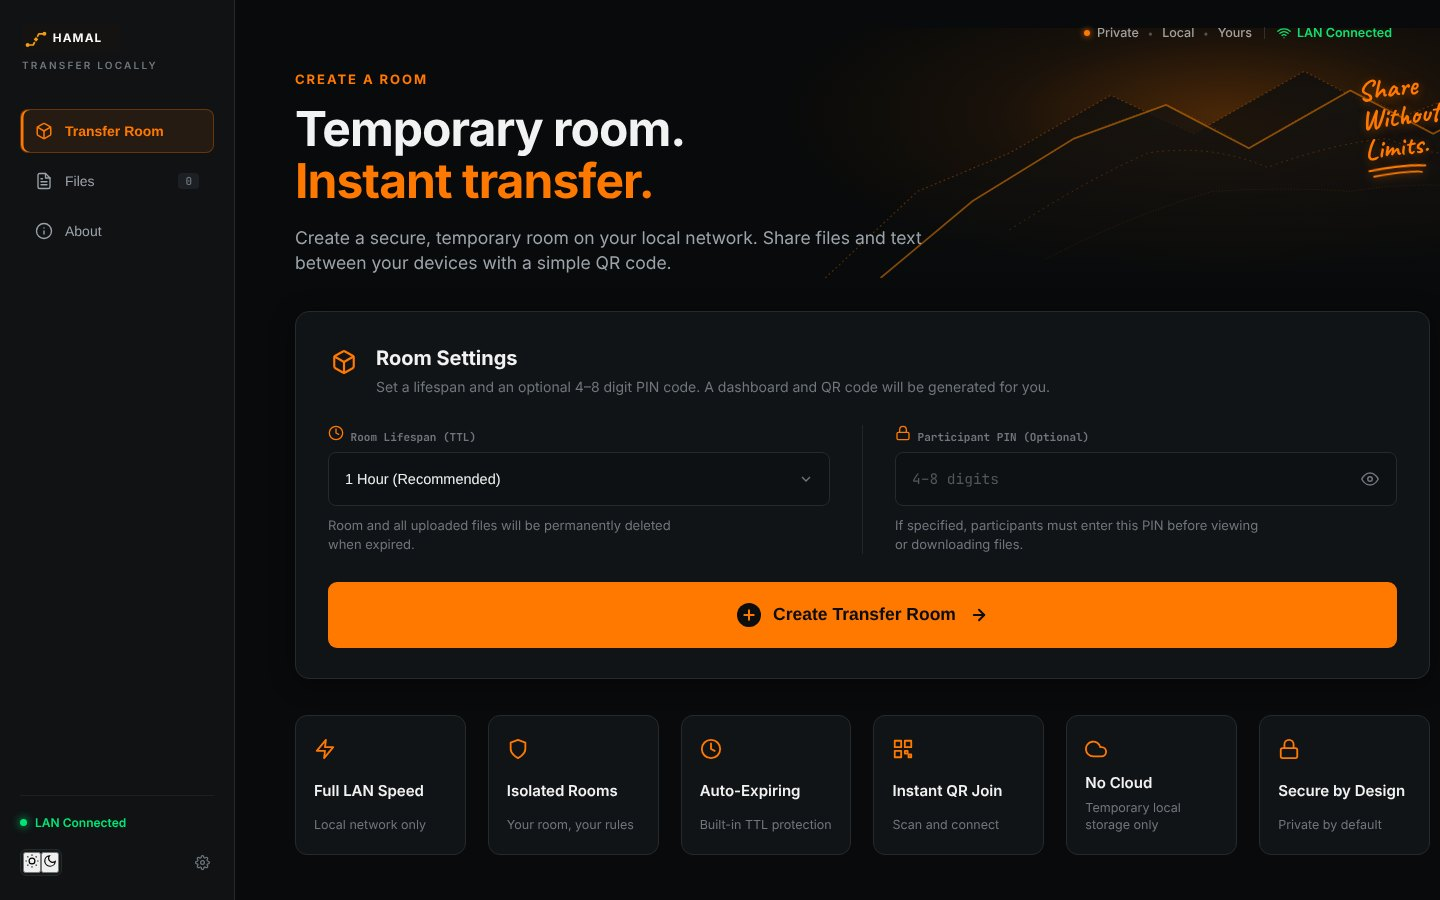
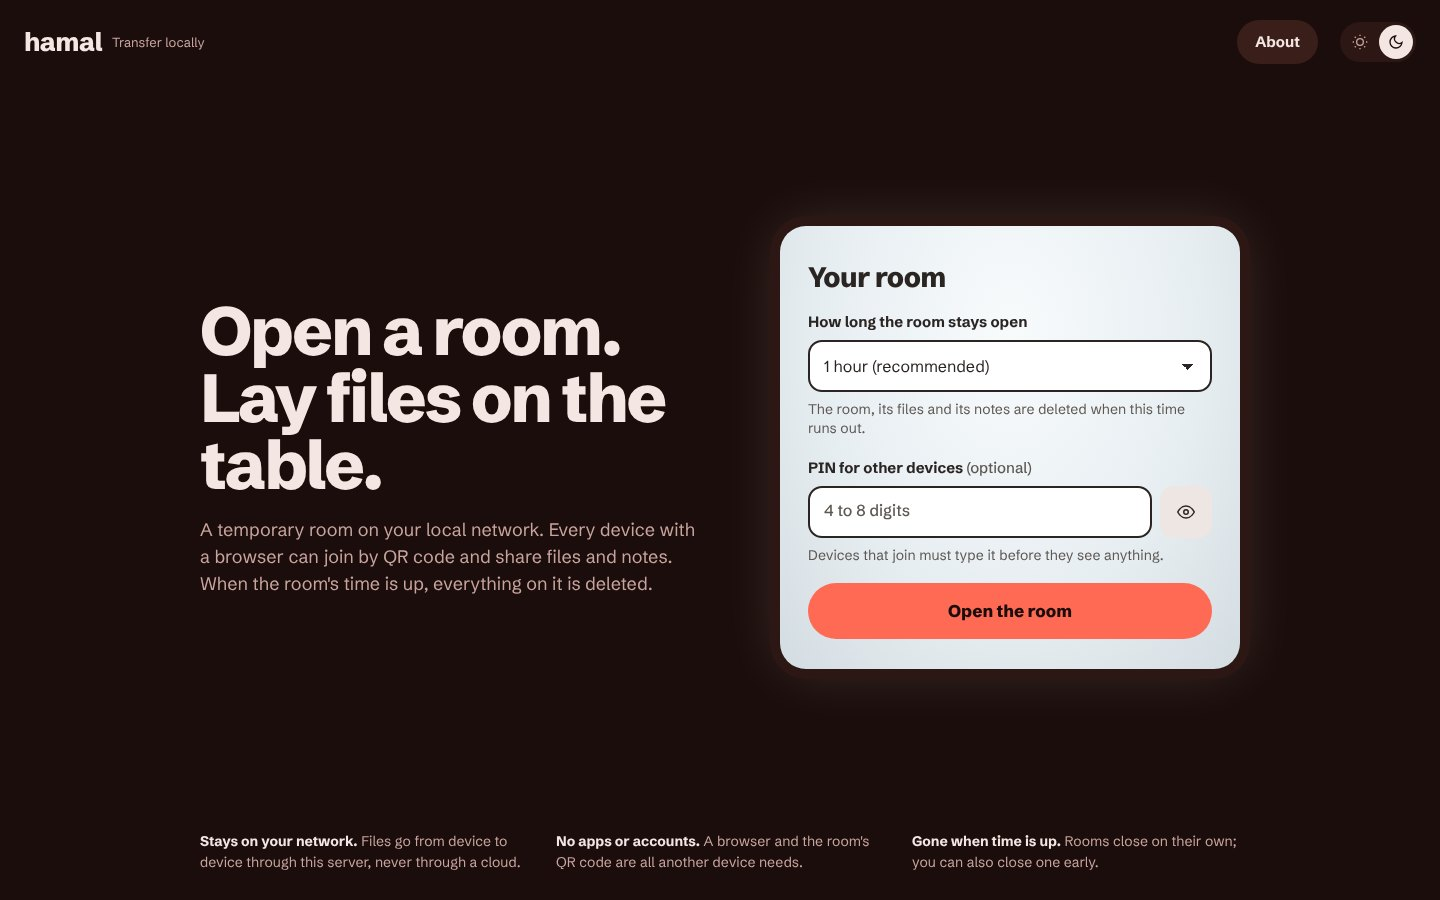
test(visual): landing screen baselines; README shows the new landing screen
Baselines generated in mcr.microsoft.com/playwright:v1.63.0-noble
(run 43702414943, --update-snapshots=all) and inspected before accepting:
- home.png (desktop, phone): replaced, the landing screen is Light Table now.
- home-invalid-pin.png (desktop, phone): new.
- Every room-page and share baseline: unchanged (byte-identical output).

The temporary log dump step from ac2520d is reverted: test.yml is identical
to a17fbbd again.

README: "Open a room" desktop and phone screenshots captured from the running
app (home-desktop.jpg replaced, home-phone.jpg added), shown first because it
is the first screen of the journey.

Claude-Session: https://claude.ai/code/session_018JmVsQ9HTRYB8sxmMK2msH

diff --git a/README.md b/README.md
@@ -36,9 +36,15 @@ HAMAL is built around short-lived transfer rooms rather than permanent storage. 
 
 ## Screenshots
 
-Room pages use the **Light Table** design: a darkroom frame around a lit table, where photos lie as prints, documents and audio as manila slips, and notes as index cards. The lamp at the top shows how long the room has left. Screens below are captured from the running application with demo data.
+HAMAL uses the **Light Table** design throughout, from opening a room to joining one: a darkroom frame around a lit table, where photos lie as prints, documents and audio as manila slips, and notes as index cards. The lamp at the top shows how long the room has left. Screens below are captured from the running application with demo data.
 
 <div align="center">
+
+### Open a room — desktop and phone
+<img src="docs/screenshots/home-desktop.jpg" alt="HAMAL home page: Open a room, with how long the room stays open, an optional PIN and the Open the room button" width="640" />
+<img src="docs/screenshots/home-phone.jpg" alt="HAMAL home page on a phone with the room form in the first screen" width="250" />
+
+<br/><br/>
 
 ### Room — creator, desktop
 <img src="docs/screenshots/creator-desktop.jpg" alt="HAMAL creator view: files and notes on the lit table, lamp gauge, device chip, Show QR and Close room" width="900" />
@@ -65,11 +71,6 @@ Room pages use the **Light Table** design: a darkroom frame around a lit table, 
 <img src="docs/screenshots/pin-phone.jpg" alt="HAMAL PIN screen on a phone" width="250" />
 <img src="docs/screenshots/participant-phone.jpg" alt="HAMAL participant view on a phone with Add files and Write a note" width="250" />
 <img src="docs/screenshots/closing-phone.jpg" alt="HAMAL phone view in the last two minutes: warning banner and dimmed table" width="250" />
-
-<br/><br/>
-
-### Home — create a room
-<img src="docs/screenshots/home-desktop.jpg" alt="HAMAL home page with the Create Transfer Room form" width="900" />
 
 </div>
 
